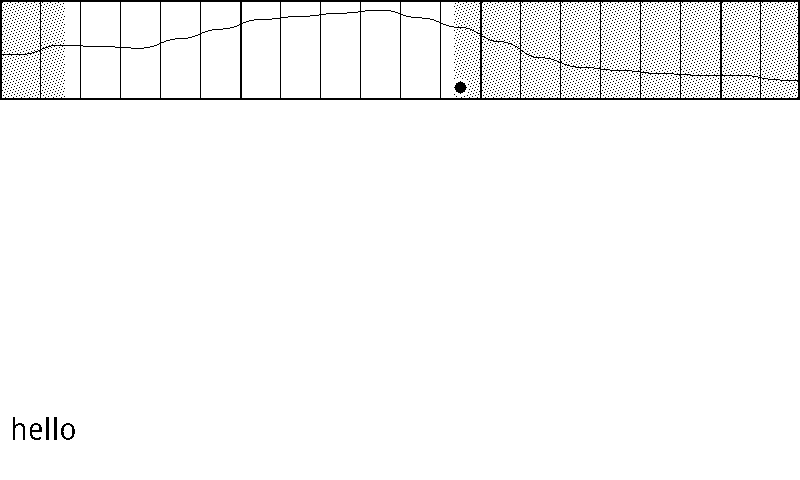
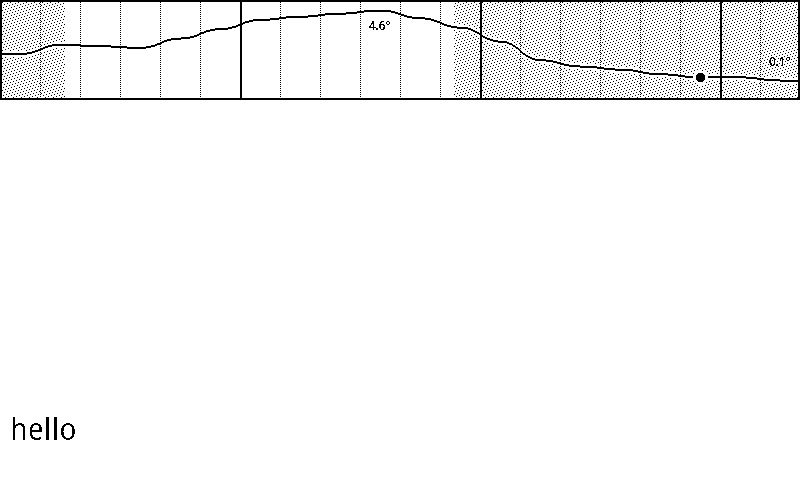
text

diff --git a/base/ui/dayview.ts b/base/ui/dayview.ts
@@ -58,17 +58,6 @@ export function drawDayview(weather: WeatherApi): Renderer {
           .sized(hourWidth - part, height)
           .fill('lighter')
       }
-
-      // paint.newRect()
-      //   .from(hourWidth * hour, height - (hourWeather.temperature - temperatureMin) / temperatureDelta * height)
-      //   .sized(hourWidth, 1)
-      //   .fill('medium')
-
-      if (hour !== 0) {
-        paint
-          .newRect(hourWidth * hour, 0, (hour + firstHour) % 6 === 0 ? 2 : 1, height)
-          .fill('black')
-      }
     }
 
     const tempUpper = ~~(height * 0.1)
@@ -80,18 +69,19 @@ export function drawDayview(weather: WeatherApi): Renderer {
       const rightValue = hourly[hour === (hourCount - 1) ? (hourCount - 1) : (hour + 1)].temperature
       const hourWidthHalf = hourWidth/2
 
-      let x = 0
-      let y = 0
-      let p = 0
-      let g = 0
-      let w = 0
+      let x = 0, y = 0, p = 0, g = 0, w = 0
       for (let xi = 0; xi < hourWidthHalf; xi++) {
         x = xi + hourWidth * hour
         p = xi / hourWidthHalf
         g = (leftValue + centerValue) / 2
         w = g + Easings.easeOutQuad(p) * (centerValue - g)
         y = tempLower - tempVar * (w - temperatureMin) / temperatureDelta
+        paint.setPixel(x, y-2, 1)
+        paint.setPixel(x, y-1, 1)
         paint.setPixel(x, y, 0)
+        paint.setPixel(x, y+1, 0)
+        paint.setPixel(x, y+2, 1)
+        paint.setPixel(x, y+3, 1)
       }
       for (let xi = hourWidthHalf; xi < hourWidth; xi++) {
         x = xi + hourWidth * hour
@@ -99,21 +89,56 @@ export function drawDayview(weather: WeatherApi): Renderer {
         g = (centerValue + rightValue) / 2
         w = centerValue + Easings.easeInQuad(p) * (g - centerValue)
         y = tempLower - tempVar * (w - temperatureMin) / temperatureDelta
+        paint.setPixel(x, y-2, 1)
+        paint.setPixel(x, y-1, 1)
         paint.setPixel(x, y, 0)
+        paint.setPixel(x, y+1, 0)
+        paint.setPixel(x, y+2, 1)
+        paint.setPixel(x, y+3, 1)
+      }
+
+      if (hour !== 0) {
+        paint.newRect()
+          .from(hourWidth * hour, 0)
+          .sized((hour + firstHour) % 6 === 0 ? 2 : 1, height)
+          .fill((hour + firstHour) % 6 === 0 ? 'black' : 'medium', 'darken')
       }
     }
 
     const currentHour = new Date().getHours()
     const currentX = hourWidth * (currentHour - firstHour) + hourWidth / 2
     if (currentX >= 0 && currentX < width) {
-      const size = 16
-      paint.newRect(currentX - size/2, height - 5 - size, size, size)
-        .round(-size/2)
+      const size = 12
+      const y = tempLower - tempVar * (hourly[currentHour - firstHour].temperature - temperatureMin) / temperatureDelta - size/2 + 1
+      paint.newRect()
+        .from(currentX - size/2, y)
+        .sized(size, size)
+        .round(-4)
         .inset(-2)
         .fill('white')
         .inset(2)
         .fill('black')
     }
+
+    const warmestHour = hourly.reduce((a, b) => a.temperature > b.temperature ? a : b)
+    const warmestHourIdx = ((warmestHour.hour < firstHour) ? (warmestHour.hour + 24) : warmestHour.hour) - firstHour
+    const coldestHour = hourly.reduce((a, b) => a.temperature < b.temperature ? a : b)
+    const coldestHourIdx = ((coldestHour.hour < firstHour) ? (coldestHour.hour + 24) : coldestHour.hour) - firstHour
+    paint
+      .newText(warmestHour.temperature.toFixed(1) + '°')
+      .at(warmestHourIdx * hourWidth + hourWidth / 2, tempUpper + 10)
+      .anchor('center', 'top')
+      .size(12)
+      .threshold(0.8)
+      .render('black')
+    paint
+      .newText(coldestHour.temperature.toFixed(1) + '°')
+      .at(coldestHourIdx * hourWidth + hourWidth / 2, tempLower - 10)
+      .anchor('center', 'bottom')
+      .size(12)
+      .threshold(0.8)
+      .render('black')
+
 
     paint.newRect(0, 0, width, height)
       .outline('black', 2)

diff --git a/base/lib/paint.ts b/base/lib/paint.ts
@@ -1,4 +1,4 @@
-import type { SKRSContext2D } from "@napi-rs/canvas"
+import { createCanvas, type SKRSContext2D } from "@napi-rs/canvas"
 
 
 type FillStyle = 'white' | 'lighter' | 'light' | 'medium' | 'dark' | 'black'
@@ -129,6 +129,80 @@ export const usePaint = (ctx: SKRSContext2D) => {
     return out
   }
 
+  function newText(text: string, x = 0, y = 0, size = 20) {
+    const data = {
+      text,
+      x,
+      y,
+      size,
+      thresh: 0.9,
+      anchorX: 'left',
+      anchorY: 'top'
+    }
+
+    const out = {
+      text: (text: string) => {
+        data.text = text
+        return out
+      },
+      at: (x: number, y: number) => {
+        data.x = ~~x
+        data.y = ~~y
+        return out
+      },
+      translate: (dx: number, dy: number) => {
+        data.x += ~~dx
+        data.y += ~~dy
+        return out
+      },
+      size: (size: number) => {
+        data.size = ~~size
+        return out
+      },
+      anchor: (x: 'left' | 'center' | 'right', y: 'top' | 'center' | 'bottom') => {
+        data.anchorX = x
+        data.anchorY = y
+        return out
+      },
+      threshold: (thresh: number) => {
+        data.thresh = thresh
+        return out
+      },
+      render: (style: FillStyle, mix?: MixMode) => {
+        ctx.font = `${data.size}px monospace`
+        const innerWidth = ~~ctx.measureText(data.text).width
+        const innerHeight = ~~(data.size * 1.2)
+        const innerCanvas = createCanvas(innerWidth, innerHeight)
+        const innerCtx = innerCanvas.getContext('2d')!
+        innerCanvas.width = innerWidth
+        innerCanvas.height = innerHeight
+        innerCtx.fillStyle = 'white'
+        innerCtx.fillRect(0, 0, innerWidth, innerHeight)
+        innerCtx.fillStyle = 'black'
+        innerCtx.font = `${data.size}px monospace`
+        innerCtx.textBaseline = 'top'
+        innerCtx.fillText(data.text, 0, 0)
+
+        let renderX = data.x
+        if (data.anchorX === 'center') renderX -= innerWidth / 2
+        if (data.anchorX === 'right') renderX -= innerWidth
+        let renderY = data.y
+        if (data.anchorY === 'center') renderY -= innerHeight / 2
+        if (data.anchorY === 'bottom') renderY -= innerHeight
+
+        const imgData = innerCtx.getImageData(0, 0, innerWidth, innerHeight)
+        for (let y = 0; y < innerHeight; y++) {
+          for (let x = 0; x < innerWidth; x++) {
+            if (imgData.data[(y * innerWidth + x) * 4] >= (data.thresh * 255)) continue
+            setPixel(renderX + x, renderY + y, rasterize(style, x, y), mix)
+          }
+        }
+        return out
+      }
+    }
+    return out
+  }
+
   function render(onlyIfChanges = false) {
     if (onlyIfChanges && !changes) return
     for (let i = 0; i < data.length; i++) {
@@ -144,6 +218,7 @@ export const usePaint = (ctx: SKRSContext2D) => {
   return {
     setPixel,
     newRect,
+    newText,
     render
   }
 }

diff --git a/base/api/weather.ts b/base/api/weather.ts
@@ -2,6 +2,7 @@ import type { WeatherData } from "./weather-types"
 
 
 type Hourly = {
+  hour: number
   temperature: number
   humidity: number
   precipitationProbability: number
@@ -71,6 +72,7 @@ export const useWeatherApi = async () => {
       const index = dateDelta * 24 + date.getHours()
 
       out[index] = {
+        hour: date.getHours(),
         temperature: data.hourly.temperature_2m[i],
         humidity: data.hourly.relative_humidity_2m[i],
         precipitationProbability: data.hourly.precipitation_probability[i],
